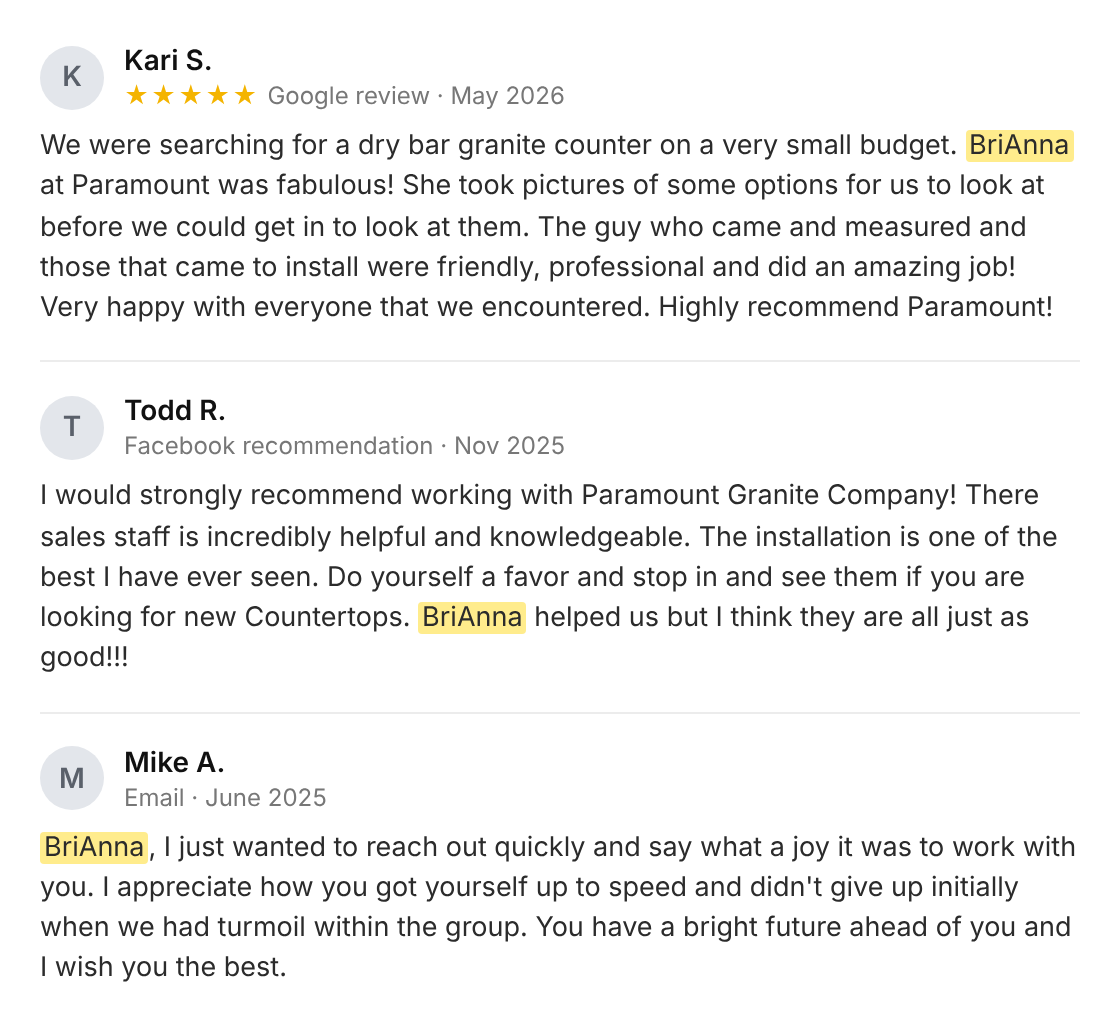
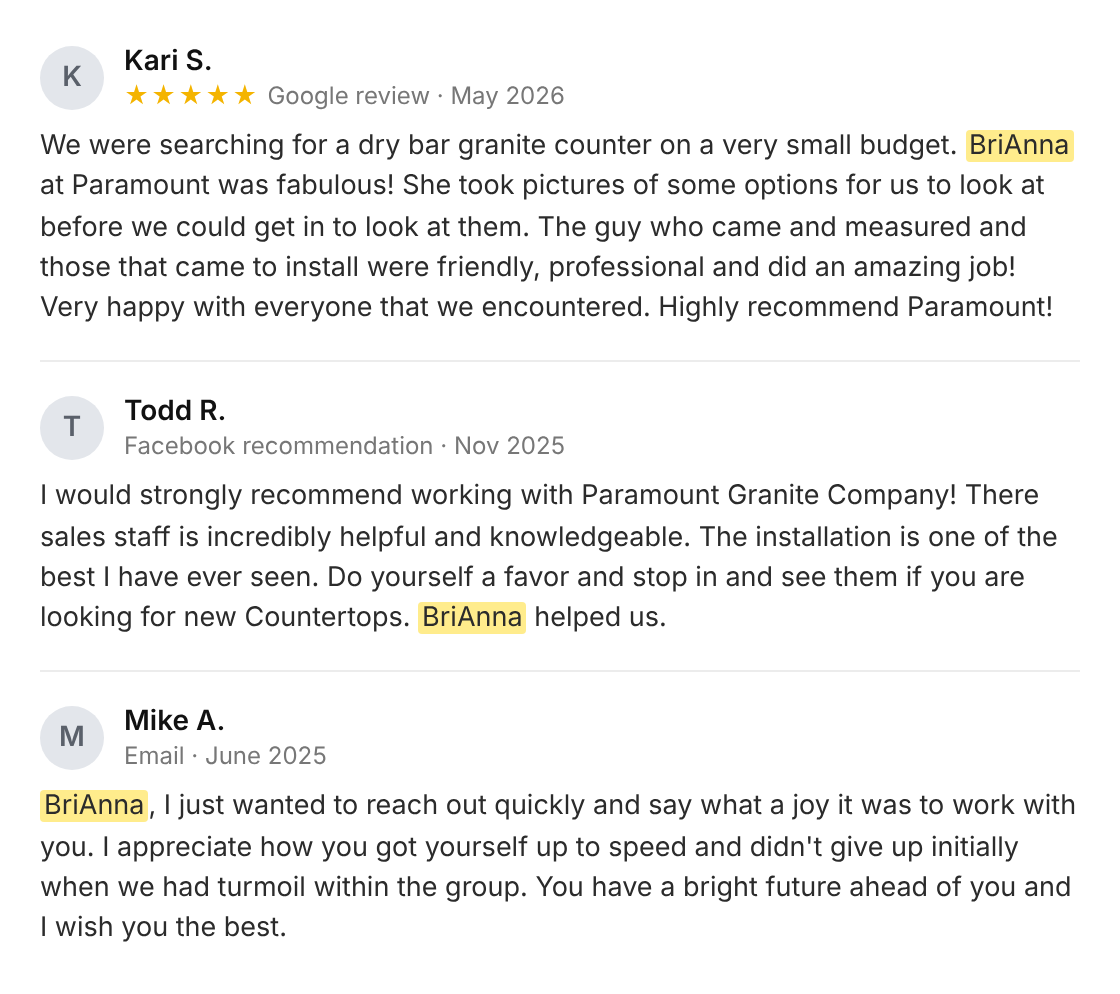
Testimonials: trim Todd's quote

diff --git a/index.html b/index.html
@@ -86,7 +86,7 @@
     <section>
       <h2>Past endeavours</h2>
       <ul>
-        <li><strong>Paramount Granite Co.</strong> (2024&#8211;2026). Events &amp; Operations Lead. Kept up to 30 jobs moving from quote to install across 50+ contractor accounts and homeowners, typically $25K&#8211;$30K each and up to $90K, while <span class="peek" tabindex="0">maintaining high-quality customer relationships<img class="review" src="assets/photos/reviews.png" width="1120" height="1034" alt="Three testimonials. Kari S., Google review: BriAnna at Paramount was fabulous! Todd R., Facebook: BriAnna helped us. Mike A., email: I appreciate how you got yourself up to speed and didn't give up when we had turmoil within the group." loading="lazy"></span>. Managed product and inventory orders, kept sales and operations in sync, and tracked every job in the CRM. Also ran marketing: the company site and two sister-company sites, <a href="https://www.paramountdesigncenter.com/" target="_blank" rel="noopener">Paramount Design Center</a> and <a href="https://www.latvalalumber.com/" target="_blank" rel="noopener">Latvala Lumber</a>, plus email, Meta ads, home shows and networking events.</li>
+        <li><strong>Paramount Granite Co.</strong> (2024&#8211;2026). Events &amp; Operations Lead. Kept up to 30 jobs moving from quote to install across 50+ contractor accounts and homeowners, typically $25K&#8211;$30K each and up to $90K, while <span class="peek" tabindex="0">maintaining high-quality customer relationships<img class="review" src="assets/photos/reviews.png" width="1120" height="994" alt="Three testimonials. Kari S., Google review: BriAnna at Paramount was fabulous! Todd R., Facebook: BriAnna helped us. Mike A., email: I appreciate how you got yourself up to speed and didn't give up when we had turmoil within the group." loading="lazy"></span>. Managed product and inventory orders, kept sales and operations in sync, and tracked every job in the CRM. Also ran marketing: the company site and two sister-company sites, <a href="https://www.paramountdesigncenter.com/" target="_blank" rel="noopener">Paramount Design Center</a> and <a href="https://www.latvalalumber.com/" target="_blank" rel="noopener">Latvala Lumber</a>, plus email, Meta ads, home shows and networking events.</li>
         <li><strong>Mustang</strong> (2021&#8211;2023). Head of Growth at an early-stage startup, through its first two years. Ran a team of ten day to day, grew our social presence across 3 platforms, and looked after 50+ customer relationships. Made 50+ cold calls a month, spoke at BNI networking events, and ran campaigns for 20+ organizations.</li>
         <li><strong>Freelance web development</strong> (4 years). Shipped Webflow, Shopify and WordPress sites for small businesses.</li>
       </ul>
